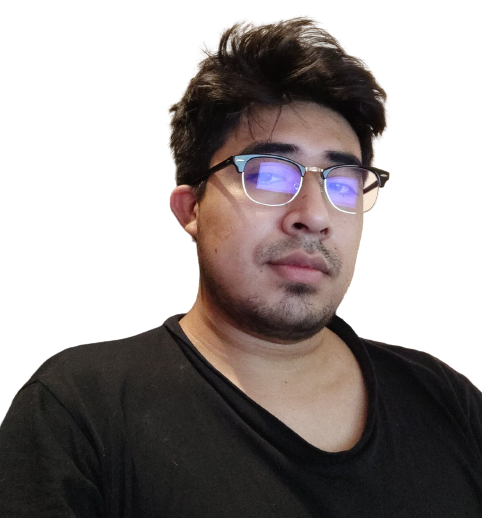
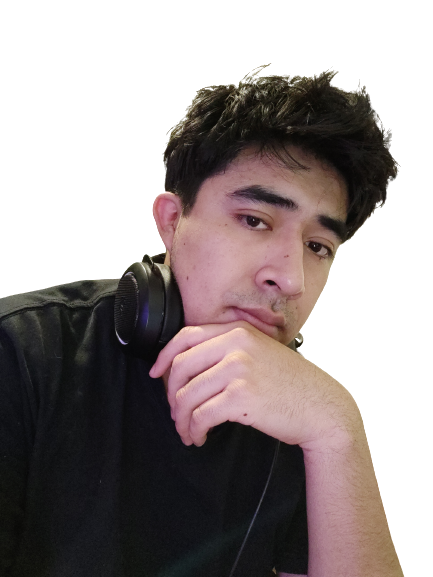
terminado about y mejoras del portafolio

diff --git a/src/components/experience/Experience.jsx b/src/components/experience/Experience.jsx
@@ -1,5 +1,139 @@
 import './experience.css';
+import { BsPatchCheckFill } from 'react-icons/bs';
 
 export const Experience = () => {
-	return <section id='experience'>Experience</section>;
+	return (
+		<>
+			<section id='experience'>
+				<h5>Mis habilidades</h5>
+				<h2>Mi experiencia</h2>
+
+				<div className='container experience__container'>
+					<div className='experience__frontend'>
+						<h3>Front-End Development</h3>
+						<div className='experience__content'>
+							<article className='experience__details'>
+								<BsPatchCheckFill className='experience__details-icon' />
+								<div>
+									<h4>HTML</h4>
+									<small className='text-light'>Medio</small>
+								</div>
+							</article>
+
+							<article className='experience__details'>
+								<BsPatchCheckFill className='experience__details-icon' />
+								<div>
+									<h4>CSS</h4>
+									<small className='text-light'>Medio</small>
+								</div>
+							</article>
+
+							<article className='experience__details'>
+								<BsPatchCheckFill className='experience__details-icon' />
+								<div>
+									<h4>SASS</h4>
+									<small className='text-light'>Medio</small>
+								</div>
+							</article>
+
+							<article className='experience__details'>
+								<BsPatchCheckFill className='experience__details-icon' />
+								<div>
+									<h4>JavaScript</h4>
+									<small className='text-light'>Medio</small>
+								</div>
+							</article>
+
+							<article className='experience__details'>
+								<BsPatchCheckFill className='experience__details-icon' />
+								<div>
+									<h4>React</h4>
+									<small className='text-light'>Medio</small>
+								</div>
+							</article>
+
+							<article className='experience__details'>
+								<BsPatchCheckFill className='experience__details-icon' />
+								<div>
+									<h4>Bootstrap</h4>
+									<small className='text-light'>Medio</small>
+								</div>
+							</article>
+
+							<article className='experience__details'>
+								<BsPatchCheckFill className='experience__details-icon' />
+								<div>
+									<h4>Angular</h4>
+									<small className='text-light'>Bajo</small>
+								</div>
+							</article>
+
+							<article className='experience__details'>
+								<BsPatchCheckFill className='experience__details-icon' />
+								<div>
+									<h4>TypeScript</h4>
+									<small className='text-light'>Bajo</small>
+								</div>
+							</article>
+
+							<article className='experience__details'>
+								<BsPatchCheckFill className='experience__details-icon' />
+								<div>
+									<h4>Redux</h4>
+									<small className='text-light'>Bajo</small>
+								</div>
+							</article>
+
+							<article className='experience__details'>
+								<BsPatchCheckFill className='experience__details-icon' />
+								<div>
+									<h4>Jest</h4>
+									<small className='text-light'>Bajo</small>
+								</div>
+							</article>
+						</div>
+					</div>
+
+					{/* backend */}
+
+					<div className='experience__backend'>
+						<h3>Back-End Development</h3>
+						<div className='experience__content'>
+							<article className='experience__details'>
+								<BsPatchCheckFill className='experience__details-icon' />
+								<div>
+									<h4>PHP</h4>
+									<small className='text-light'>Medio</small>
+								</div>
+							</article>
+
+							<article className='experience__details'>
+								<BsPatchCheckFill className='experience__details-icon' />
+								<div>
+									<h4>Node JS</h4>
+									<small className='text-light'>bajo</small>
+								</div>
+							</article>
+
+							<article className='experience__details'>
+								<BsPatchCheckFill className='experience__details-icon' />
+								<div>
+									<h4>Express JS</h4>
+									<small className='text-light'>Bajo</small>
+								</div>
+							</article>
+
+							<article className='experience__details'>
+								<BsPatchCheckFill className='experience__details-icon' />
+								<div>
+									<h4>MongoDB</h4>
+									<small className='text-light'>Bajo</small>
+								</div>
+							</article>
+						</div>
+					</div>
+				</div>
+			</section>
+		</>
+	);
 };

diff --git a/src/components/about/About.jsx b/src/components/about/About.jsx
@@ -1,5 +1,5 @@
 import './about.css';
-import ME from '../../assets/sobre-mi (1).jpg';
+import ME from '../../assets/sobre-mi.jpg';
 import { FaAward } from 'react-icons/fa';
 import { FiUsers } from 'react-icons/fi';
 import { VscFolderLibrary } from 'react-icons/vsc';
@@ -25,30 +25,30 @@ export const About = () => {
 						<div className='about__cards'>
 							<article className='about__card'>
 								<FaAward className='about__icon' />
-								<h5>Experience</h5>
-								<small>3+ años de trabajo</small>
+								<h5>Licenciatura </h5>
+								<small>
+									Ingeniería en Ciencias de la Computación
+								</small>
 							</article>
 
 							<article className='about__card'>
 								<FiUsers className='about__icon' />
-								<h5>Clientes</h5>
-								<small>3+ clientes</small>
+								<h5>Cursos</h5>
+								<small>5 Curso</small>
 							</article>
 
 							<article className='about__card'>
 								<VscFolderLibrary className='about__icon' />
-								<h5>Proyectos</h5>
-								<small>10+ Completados</small>
+								<h5>Proyectos en GitHub</h5>
+								<small>30+ Realizados</small>
 							</article>
 						</div>
 
 						<p>
-							Lorem ipsum dolor sit amet consectetur adipisicing
-							elit. Obcaecati autem quia, eligendi deserunt neque
-							iusto dolorem reprehenderit molestias. Error
-							repellendus illo praesentium! Ipsa aut
-							necessitatibus, quis quidem veritatis modi
-							assumenda?
+							Hola, Soy Leonardo, soy recién egresado de la
+							universidad Benemérita Universidad Autónoma de
+							Puebla, empezando en el desarrollo web en la parte
+							de Front-end.
 						</p>
 
 						<a href='#contact' className='btn btn-primary'>

diff --git a/src/components/experience/experience.css b/src/components/experience/experience.css
@@ -1,0 +1,71 @@
+.experience__container {
+	display: grid;
+	grid-template-columns: 1fr 1fr;
+	gap: 2rem;
+}
+
+.experience__container > div {
+	background: var(--color-bg-variant);
+	padding: 2.4rem 5rem;
+	border-radius: 2rem;
+	border: 1px solid transparent;
+	transition: var(--transition);
+}
+
+.experience__container > div:hover {
+	background: transparent;
+	border-color: var(--color-primary-variant);
+	cursor: default;
+}
+
+.experience__container > div h3 {
+	text-align: center;
+	margin-bottom: 2rem;
+	color: var(--color-primary);
+}
+
+.experience__content {
+	display: grid;
+	grid-template-columns: 1fr 1fr;
+	row-gap: 2rem;
+}
+
+.experience__details {
+	display: flex;
+	gap: 1rem;
+}
+
+.experience__details-icon {
+	margin-top: 6px;
+	color: var(--color-primary);
+}
+/* media query para dispositivos medianos por ejemplo tablet  */
+
+@media screen and (max-width: 1024px) {
+	.experience__container {
+		grid-template-columns: 1fr;
+	}
+
+	.experience__container > div {
+		width: 80%;
+		padding: 2rem;
+		margin: 0 auto;
+	}
+
+	.experience__content {
+		padding: 1rem;
+	}
+}
+
+/* media query para dispositivos pequeños por ejemplo teléfonos  */
+
+@media screen and (max-width: 600px) {
+	.experience__container {
+		gap: 1rem;
+	}
+
+	.experience__container > div {
+		width: 100%;
+		padding: 2rem 1rem;
+	}
+}

diff --git a/src/components/header/header.css b/src/components/header/header.css
@@ -40,15 +40,20 @@ header {
 
 /* me */
 .me {
-	background: linear-gradient(var(--color-primary), transparent);
+	background: rgb(44, 44, 108);
+	background: linear-gradient(
+		7deg,
+		rgba(44, 44, 108, 0.36738445378151263) 4%,
+		rgba(77, 181, 255, 1) 100%
+	);
 	width: 22rem;
 	height: 26.2rem;
 	position: absolute;
 	left: calc(50% - 11rem);
 	margin-top: 4rem;
-	border-radius: 12rem 12rem 0 0;
+	border-radius: 1rem 1rem;
 	overflow: hidden;
-	padding: 5rem 1.5rem 1.5rem 1.5rem;
+	padding: 1.5rem 0rem;
 }
 
 /* scroll abajo */

diff --git a/src/components/about/about.css b/src/components/about/about.css
@@ -5,8 +5,6 @@
 }
 
 .about__me {
-	width: 100%;
-	aspect-ratio: 1/1;
 	border-radius: 2rem;
 	background: linear-gradient(
 		45deg,

diff --git a/src/index.css b/src/index.css
@@ -65,7 +65,6 @@ h1 {
 
 section {
 	margin-top: 8rem;
-	height: 100vh;
 }
 
 section > h2,
